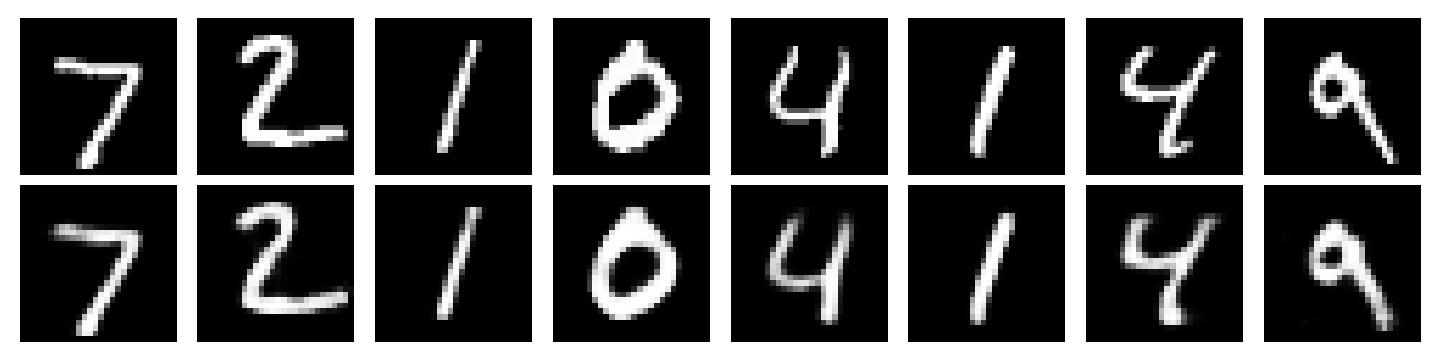
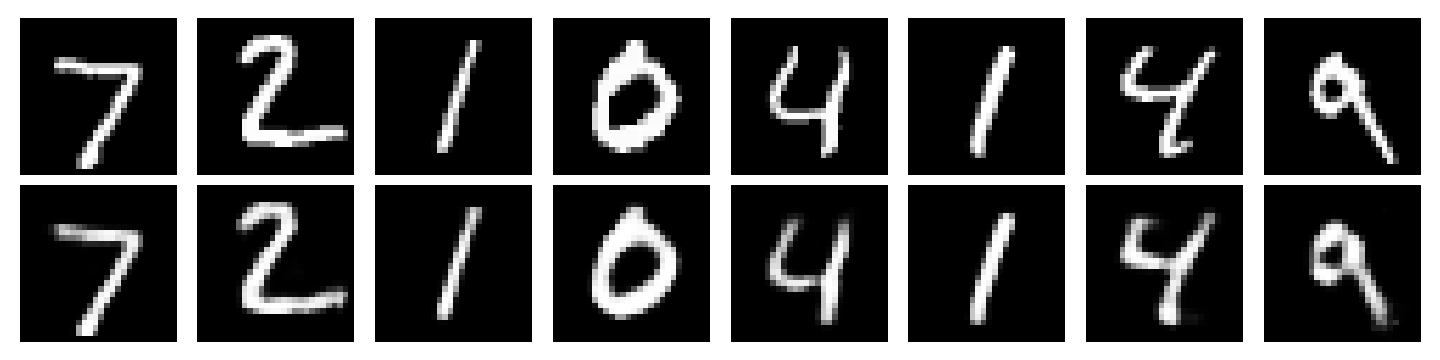
add:cvae框架

diff --git a/ae.py b/ae.py
@@ -1,142 +1,119 @@
+import torch                                      # PyTorch 核心库
+import torch.nn as nn                             # 神经网络模块（层、损失函数等）
+import torch.optim as optim                       # 优化器（Adam、SGD 等）
+from torchvision import datasets, transforms      # 常用视觉数据集和图像变换
+from torch.utils.data import DataLoader           # 批量加载数据的工具
+import matplotlib.pyplot as plt                   # 绘图库，用于可视化结果
 
-import torch.nn as nn
-import torch
-from torchvision import datasets, transforms
-import matplotlib.pyplot as plt
-
+# ─── 模型定义 ───────────────────────────────────────────────
 class Encoder(nn.Module):
-    def __init__(self, input_dim, hidden_dim, latent_dim):
-        super(Encoder, self).__init__()
-        self.network = nn.Sequential(
-            nn.Linear(input_dim, hidden_dim),
-            nn.ReLU(),
-            nn.Linear(hidden_dim, latent_dim)
+    # input_dim=784：MNIST 图片展平后的维度（28×28=784）
+    # hidden_dim=256：隐藏层神经元数，介于输入和隐变量之间起过渡作用
+    # latent_dim=32：隐变量 z 的维度，即"瓶颈"大小
+    def __init__(self, input_dim=784, hidden_dim=256, latent_dim=32):
+        super().__init__()                        # 调用父类 nn.Module 的初始化
+        self.net = nn.Sequential(
+            nn.Linear(input_dim, hidden_dim),     # 全连接：784 → 256，提取中间特征
+            nn.ReLU(),                            # 激活函数，引入非线性，负值置零
+            nn.Linear(hidden_dim, latent_dim),    # 全连接：256 → 32，压缩到隐空间
         )
 
     def forward(self, x):
-        return self.network(x)
-
-
+        return self.net(x)                        # 顺序经过上面三层，返回隐变量 z
 
 
 class Decoder(nn.Module):
-    def __init__(self, latent_dim, hidden_dim, output_dim):
-        super(Decoder, self).__init__()
-        self.network = nn.Sequential(
-            nn.Linear(latent_dim, hidden_dim),
-            nn.ReLU(),
-            nn.Linear(hidden_dim, output_dim),
-            nn.Sigmoid()
+    # latent_dim=32：接收来自 Encoder 的 z
+    # hidden_dim=256：先扩展到中间维度
+    # output_dim=784：最终还原到与输入相同的维度
+    def __init__(self, latent_dim=32, hidden_dim=256, output_dim=784):
+        super().__init__()
+        self.net = nn.Sequential(
+            nn.Linear(latent_dim, hidden_dim),    # 全连接：32 → 256，开始扩展
+            nn.ReLU(),                            # 非线性激活
+            nn.Linear(hidden_dim, output_dim),    # 全连接：256 → 784，还原维度
+            nn.Sigmoid(),   # 输出范围 [0,1]，与 BCE 搭配；MNIST 像素值也在 [0,1]
         )
-    def forward(self, x):
-        return self.network(x)
-        
+
+    def forward(self, z):
+        return self.net(z)                        # z 经过解码网络，输出重建图像 x̂
 
 
 class AutoEncoder(nn.Module):
-    def __init__(self, input_dim, hidden_dim, latent_dim):
-        super(AutoEncoder, self).__init__()
-        self.encoder = Encoder(input_dim, hidden_dim, latent_dim)
-        self.decoder = Decoder(latent_dim, hidden_dim, input_dim)
+    def __init__(self, input_dim=784, hidden_dim=256, latent_dim=32):
+        super().__init__()
+        self.encoder = Encoder(input_dim, hidden_dim, latent_dim)   # 编码器子模块
+        self.decoder = Decoder(latent_dim, hidden_dim, input_dim)   # 解码器子模块
 
     def forward(self, x):
-        x = self.encoder(x)
-        x = self.decoder(x)
-        return x
+        z = self.encoder(x)       # x → z：压缩到隐空间（确定性映射）
+        x_hat = self.decoder(z)   # z → x̂：从隐空间还原
+        return x_hat              # 返回重建结果，供计算重建误差
 
 
+# ─── 训练 ───────────────────────────────────────────────────
+def train_ae(epochs=10, latent_dim=32, batch_size=128, lr=1e-3):
+    # 检测是否有 GPU；有则用 CUDA 加速，否则用 CPU
+    device = torch.device("cuda" if torch.cuda.is_available() else "cpu")
 
-def Inference(model):
-    batch_size=8
-    device=next(model.parameters()).device
+    # MNIST 数据集
+    transform = transforms.ToTensor()            # 将 PIL 图片转为 [0,1] 的 Tensor
+    # train=True 加载训练集；download=True 若本地没有则自动下载
+    train_dataset = datasets.MNIST("./data", train=True, download=True, transform=transform)
+    # shuffle=True：每个 epoch 打乱数据顺序，防止模型记住顺序
+    train_loader = DataLoader(train_dataset, batch_size=batch_size, shuffle=True)
+
+    model = AutoEncoder(latent_dim=latent_dim).to(device)  # 模型移到指定设备
+    optimizer = optim.Adam(model.parameters(), lr=lr)      # Adam 自适应优化器
+    criterion = nn.BCELoss(reduction='mean')                           # 二元交叉熵损失，适合像素值 [0,1]
+
+    for epoch in range(1, epochs + 1):
+        total_loss = 0.0                          # 累计该 epoch 的总损失
+        for x, _ in train_loader:                # _ 是标签，AE 不需要标签（无监督）
+            x = x.view(x.size(0), -1).to(device) # 展平：(B,1,28,28) → (B,784)，并移到设备
+
+            x_hat = model(x)                     # 前向传播：x → z → x̂
+            loss = criterion(x_hat, x)           # 计算重建误差 BCE(x̂, x)
+
+            optimizer.zero_grad()                # 清空上一步的梯度，防止累加
+            loss.backward()                      # 反向传播：计算各参数的梯度
+            optimizer.step()                     # 用梯度更新模型参数
+
+            # loss.item() 是该 batch 的平均损失，乘 batch 大小还原为总损失
+            total_loss += loss.item() * x.size(0)
+
+        avg_loss = total_loss / len(train_dataset)            # 除以样本总数得平均损失
+        print(f"Epoch [{epoch}/{epochs}]  Loss: {avg_loss:.4f}")
+
+    return model                                 # 返回训练好的模型
+
+
+# ─── 可视化重建结果 ──────────────────────────────────────────
+def visualize_ae(model, n=8):
+    device = next(model.parameters()).device     # 获取模型所在设备（CPU/GPU）
     transform = transforms.ToTensor()
-    test_dataset = datasets.MNIST(root='./data', train=False, transform=transform, download=True)
-    test_loader = torch.utils.data.DataLoader(dataset=test_dataset, batch_size=batch_size, shuffle=False)
+    # train=False：加载测试集，评估模型在未见过数据上的效果
+    test_dataset = datasets.MNIST("./data", train=False, download=True, transform=transform)
+    # 取一个 batch（n 张）作为演示样本
+    x_samples, _ = next(iter(DataLoader(test_dataset, batch_size=n))) #(n, 1, 28, 28)
+    x_flat = x_samples.view(n, -1).to(device)   # 展平并移到设备
 
-    #取第一个batch
-    x_batch, _ = next(iter(test_loader))
-    x_batch= x_batch.view(x_batch.size(0), -1).to(device) # 展平：(B,1,28,28)->(B,28*28)
-    
+    with torch.no_grad():                        # 关闭梯度计算，节省内存，加快速度
+        x_hat = model(x_flat).cpu().view(n, 28, 28)  # 前向推理，结果移回 CPU 并还原为图片形状
 
-    with torch.no_grad():
-        x_batch_hat = model(x_batch)
-        x_batch_hat = x_batch_hat.view(batch_size, 28, 28).cpu()
-        x_batch = x_batch.view(batch_size, 28, 28).cpu()
-
-        # 绘制原图(上排)和重建图(下排)
-        fig, axes = plt.subplots(2, batch_size, figsize=(batch_size * 2, 4))
-        for i in range(batch_size):
-            # 上排：原图
-            axes[0, i].imshow(x_batch[i], cmap='gray')
-            axes[0, i].axis('off')
-
-
-            # 下排：重建图
-            axes[1, i].imshow(x_batch_hat[i], cmap='gray')
-            axes[1, i].axis('off')
+    fig, axes = plt.subplots(2, n, figsize=(n * 1.5, 3))  # 2 行（原始/重建）× n 列
+    for i in range(n):
+        axes[0, i].imshow(x_samples[i].squeeze(), cmap="gray")  # 第 0 行：原始图片
+        axes[0, i].axis("off")                   # 隐藏坐标轴
+        axes[1, i].imshow(x_hat[i], cmap="gray") # 第 1 行：重建图片
+        axes[1, i].axis("off")
+    axes[0, 0].set_ylabel("原始", fontsize=10)   # 最左列标注行名
+    axes[1, 0].set_ylabel("重建", fontsize=10)
+    plt.tight_layout()                           # 自动调整子图间距，避免重叠
+    plt.savefig("ae_reconstruction.png", dpi=120)  # 保存图片
+    plt.show()                                   # 弹出显示窗口
 
 
-        plt.tight_layout()
-        plt.savefig('ae_result.png')
-        plt.show()
-
-
-
-
-
-
-
-
-if __name__ == '__main__':
-    #模型
-    device = torch.device('cuda' if torch.cuda.is_available() else 'cpu')
-    train_dataset= datasets.MNIST(root='./data', train=True, transform=transforms.ToTensor(), download=True)
-    data_loader = torch.utils.data.DataLoader(dataset=train_dataset, batch_size=100, shuffle=True)  
-
-    ae_model = AutoEncoder(28*28, 256, 20)
-    ae_model.to(device)
-
-
-    criterion=nn.BCELoss(reduction='mean')
-
-    optimizer = torch.optim.Adam(ae_model.parameters(), lr=0.001)
-
-    num_epochs=10
-    for epoch in range(1,num_epochs+1):
-        total_loss = 0.0
-        for x_batch, _ in data_loader:
-            x_batch= x_batch.view(x_batch.size(0), -1).to(device) # 展平：(B,1,28,28)->(B,28*28)
-            x_batch_hat = ae_model(x_batch)
-            batch_loss=criterion(x_batch_hat, x_batch)
-
-            optimizer.zero_grad()
-            batch_loss.backward()
-            optimizer.step()
-
-            total_loss += batch_loss.item() * x_batch.size(0)
-
-        avg_loss = total_loss / len(train_dataset)
-        print(f'Epoch: {epoch}, Loss: {total_loss / len(data_loader.dataset)}')
-
-    
-    print('Finished Training')
-
-
-    #推理
-    Inference(model=ae_model)
-    
-
-
-
-  
-
-
-
-        
-
-
-
-
-
-
-
+if __name__ == "__main__":
+    ae_model = train_ae(epochs=10, latent_dim=32)  # 训练 10 轮，隐变量维度 32
+    visualize_ae(ae_model)                         # 可视化重建结果

diff --git a/vae.py b/vae.py
@@ -1,0 +1,57 @@
+import torch                                      # PyTorch 核心库
+import torch.nn as nn                             # 神经网络模块（层、损失函数等）
+import torch.optim as optim                       # 优化器（Adam、SGD 等）
+from torchvision import datasets, transforms      # 常用视觉数据集和图像变换
+from torch.utils.data import DataLoader           # 批量加载数据的工具
+import matplotlib.pyplot as plt                   # 绘图库，用于可视化结果
+
+
+class VAEEncoder(nn.Module):
+    pass
+
+class VAEDecoder(nn.Module):
+    pass
+
+
+class VAE(nn.Module):
+    pass
+
+
+def train_vae(epochs=10, latent_dim=32, batch_size=128, lr=1e-3):
+    # 检测是否有 GPU；有则用 CUDA 加速，否则用 CPU
+    device = torch.device("cuda" if torch.cuda.is_available() else "cpu")
+
+    # MNIST 数据集
+    transform = transforms.ToTensor()            # 将 PIL 图片转为 [0,1] 的 Tensor
+    # train=True 加载训练集；download=True 若本地没有则自动下载
+    train_dataset = datasets.MNIST("./data", train=True, download=True, transform=transform)
+    # shuffle=True：每个 epoch 打乱数据顺序，防止模型记住顺序
+    train_loader = DataLoader(train_dataset, batch_size=batch_size, shuffle=True)
+
+    model = VAE(latent_dim=latent_dim).to(device)  # 模型移到指定设备
+    optimizer = optim.Adam(model.parameters(), lr=lr)      # Adam 自适应优化器
+    criterion = nn.BCELoss(reduction='mean')                           # 二元交叉熵损失，适合像素值 [0,1]
+
+    for epoch in range(1, epochs + 1):
+        total_loss = 0.0                          # 累计该 epoch 的总损失
+        for x, _ in train_loader:                # _ 是标签，AE 不需要标签（无监督）
+            x = x.view(x.size(0), -1).to(device) # 展平：(B,1,28,28) → (B,784)，并移到设备
+
+            x_hat = model(x)                     # 前向传播：x → z → x̂
+            loss = criterion(x_hat, x)           # 计算重建误差 BCE(x̂, x)
+
+            optimizer.zero_grad()                # 清空上一步的梯度，防止累加
+            loss.backward()                      # 反向传播：计算各参数的梯度
+            optimizer.step()                     # 用梯度更新模型参数
+
+            # loss.item() 是该 batch 的平均损失，乘 batch 大小还原为总损失
+            total_loss += loss.item() * x.size(0)
+
+        avg_loss = total_loss / len(train_dataset)            # 除以样本总数得平均损失
+        print(f"Epoch [{epoch}/{epochs}]  Loss: {avg_loss:.4f}")
+
+    return model                                 # 返回训练好的模型
+
+
+
+if __name__ == '__main__':
